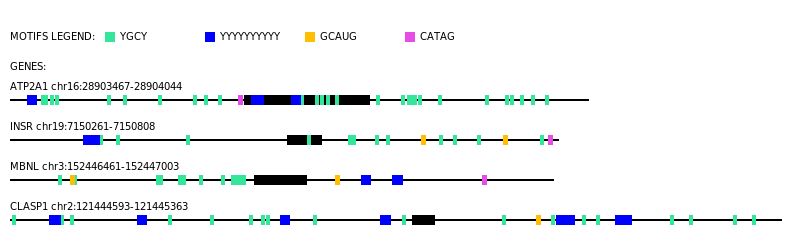
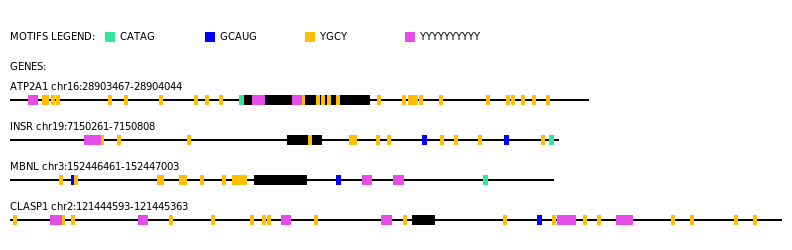
fixed positioning of motif on gene in png

diff --git a/mark-motif-oop.py b/mark-motif-oop.py
@@ -348,6 +348,7 @@ class DrawMe:
         for gobj in self.illustrationgroups:
             for key, values in gobj.info.items():
                 if key[2] == "exon":
+                    # print(f'{key=}')
                     self.con.set_source_rgb(0,0,0)
                     exstart = key[6]
                     ex_x_axis_start = int(re.search("[0-9]+",exstart).group()) + 11   #add one to move from 0-based numbers to matrix-math based numbers and 10 for margin space
@@ -370,12 +371,13 @@ class DrawMe:
                     startofliney += 40
                     for mkey,sval in gobj.positions.items():
                         w = len(mkey[0])
+                        # print(f'{w=},{mkey=}')
                         r = float(mkey[2][0])
                         g = float(mkey[2][1])
                         b = float(mkey[2][2])
                         self.con.set_source_rgb(r,g,b)
                         for xaxism in sval:
-                            x = xaxism + 10
+                            x = xaxism + 11
                             self.con.rectangle(x,rec_start_y,w,10)
                             self.con.fill()
                             self.con.stroke()
